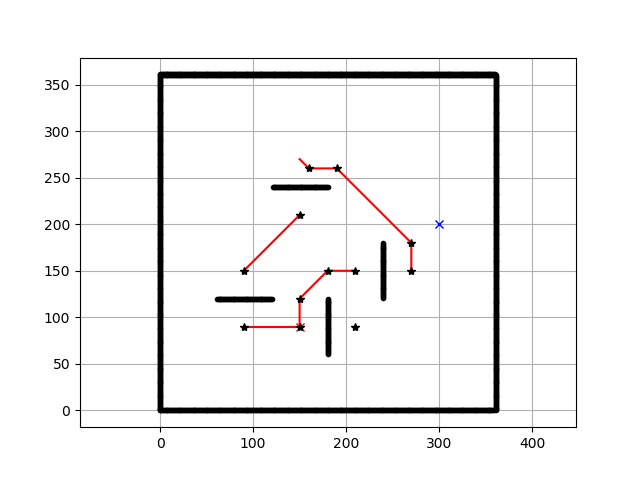
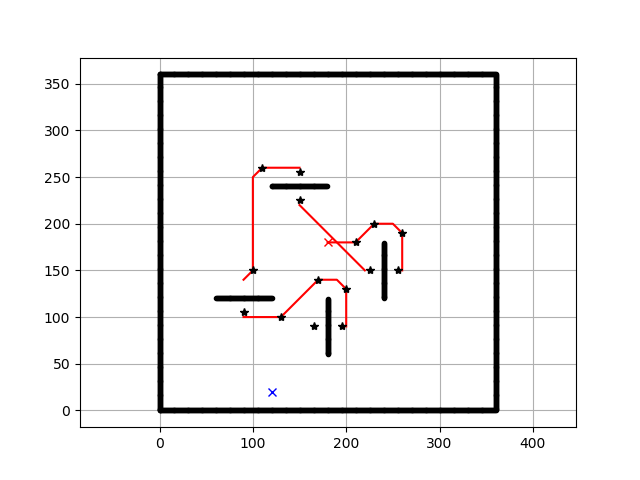
code

diff --git a/P2/path_planning/AStar/a_star.py b/P2/path_planning/AStar/a_star.py
@@ -14,17 +14,17 @@ show_animation = True
 
 STEP = 1.0
 MAX_RANGE = 360
-LEN_TO_GATE = 30
+LEN_TO_GATE = 15
 way_point =[]
 TURNING_MAX_RAD = 0.5
 WEIGHTS = 0.1
 LEN_THRE = 25.0
 
 # start and goal position
-sx = 150.0  # [m]
-sy = 90.0  # [m]
-gx = 300.0  # [m]
-gy = 200.0  # [m]
+sx = 180.0  # [m]
+sy = 180.0  # [m]
+gx = 120.0  # [m]
+gy = 20.0  # [m]
 grid_size = 10.0  # [m]
 robot_size = 19.0  # [m]
 
@@ -243,9 +243,9 @@ def create_map(mapfile):
     for i in range(MAX_RANGE+1):
         ox.append(0)
         oy.append(i)
-    for i in range(MAX_RANGE+1):
-        ox.append(i)
-        oy.append(MAX_RANGE+1)
+    # for i in range(MAX_RANGE+1):
+    #     ox.append(i)
+    #     oy.append(MAX_RANGE+1)
     for i in range(MAX_RANGE+1):
         ox.append(MAX_RANGE+1)
         oy.append(i)
@@ -314,6 +314,8 @@ def path_planning_loop(ox, oy, gates):
     # x_half_width, y_half_width
     start_point = np.asarray([sx, sy])
     count = 0
+    rx_all = []
+    ry_all = []
     for each_gate in gates:
         xlen = each_gate[2] - each_gate[0]
         ylen = each_gate[3] - each_gate[1]
@@ -328,7 +330,8 @@ def path_planning_loop(ox, oy, gates):
         rx, ry = a_star_planning(float(start_point[0]), float(start_point[1]), float(enter_point[0]), float(enter_point[1]), ox, oy, grid_size, robot_size)
         turningpoint = getTurningPts(rx, ry,start_point, enter_point, count)
         start_point = center_gate + (perpen_pt - center_gate)/dist_cal(perpen_pt, center_gate)*(-LEN_TO_GATE)
-        
+        rx_all = rx_all + rx[::-1]
+        ry_all = ry_all + ry[::-1]
         if count == 3:
             turningpoint = turningpoint + [[start_point[0], start_point[1]]]
         
@@ -345,7 +348,7 @@ def path_planning_loop(ox, oy, gates):
             plt.plot(rx, ry, "-r")
             # plt.show()
 
-    return way_point
+    return way_point,rx_all, ry_all
 
 
 def main():
@@ -361,7 +364,7 @@ def main():
         plt.grid(True)
         plt.axis("equal")
         # plt.show()
-    way_point = path_planning_loop(ox, oy, gates)
+    way_point,rx_all, ry_all = path_planning_loop(ox, oy, gates)
 
 
     print(way_point)
@@ -386,6 +389,24 @@ def main():
 
     plt.savefig('final')
     plt.close()
+
+    # for report
+    newsx = (np.asarray(sx) - 180)/100
+    newsy = (np.asarray(sy) - 180)/100
+    ox = (np.asarray(ox) - 180)/100
+    oy = (np.asarray(oy) - 180)/100
+    rx_all = (np.asarray(rx_all) - 180)/100
+    ry_all = (np.asarray(ry_all) - 180)/100
+    plt.plot(newsx, newsy, "ob",markersize=8.0, label='start point')
+    plt.plot(ox, oy, ".k")
+    plt.plot(rx_all, ry_all, "-r",linewidth=3.0, label='final path')
+    plt.grid(True)
+    plt.axis("equal")
+    plt.xlabel('x[m]')
+    plt.ylabel('y[m]')
+    plt.legend()
+    plt.show()
+
 
 if __name__ == '__main__':
     main()

diff --git a/P2/path_planning/PotentialFieldPlanning/potential_field_planning.py b/P2/path_planning/PotentialFieldPlanning/potential_field_planning.py
@@ -15,7 +15,7 @@ import matplotlib.pyplot as plt
 # Parameters
 KP = 5.0  # attractive potential gain
 ETA = 100.0  # repulsive potential gain
-AREA_WIDTH = 30.0  # potential area width [m]
+AREA_WIDTH = 180.0  # potential area width [m]
 
 show_animation = True
 
@@ -147,7 +147,7 @@ def main():
     gx = 30.0  # goal x position [m]
     gy = 30.0  # goal y position [m]
     grid_size = 0.5  # potential grid size [m]
-    robot_radius = 5.0  # robot radius [m]
+    robot_radius = 11.0  # robot radius [m]
 
     ox = [15.0, 5.0, 20.0, 25.0]  # obstacle x position list [m]
     oy = [25.0, 15.0, 26.0, 25.0]  # obstacle y position list [m]
